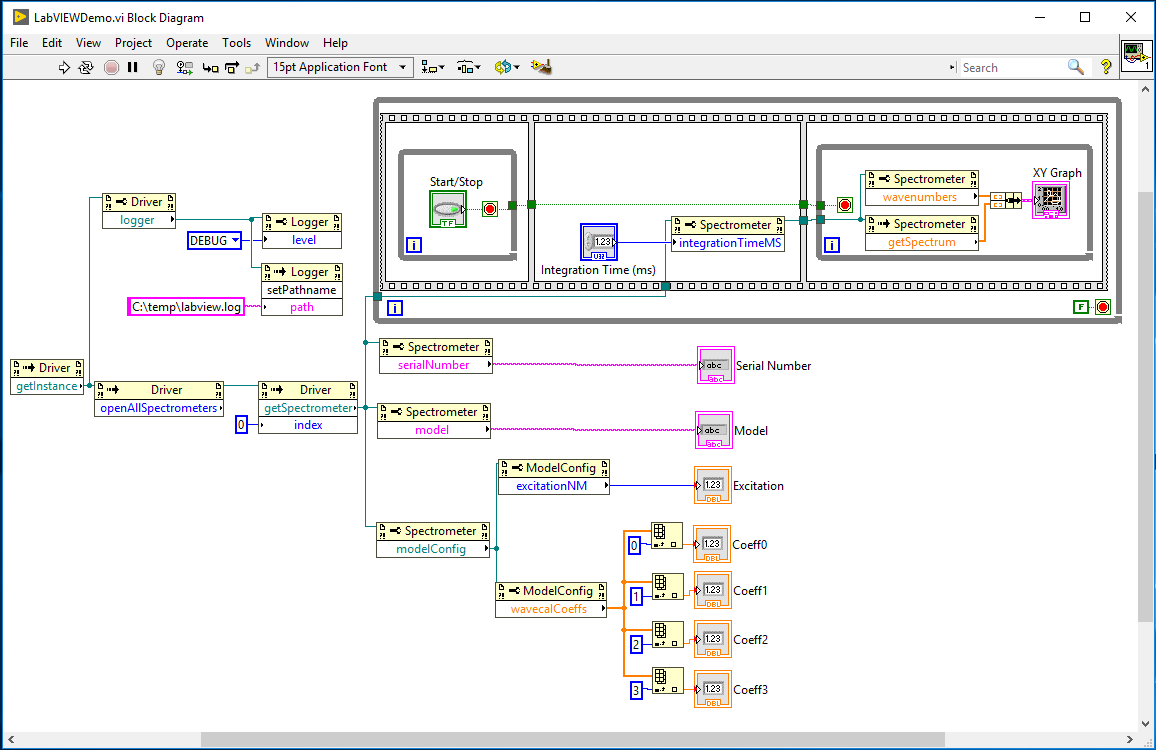
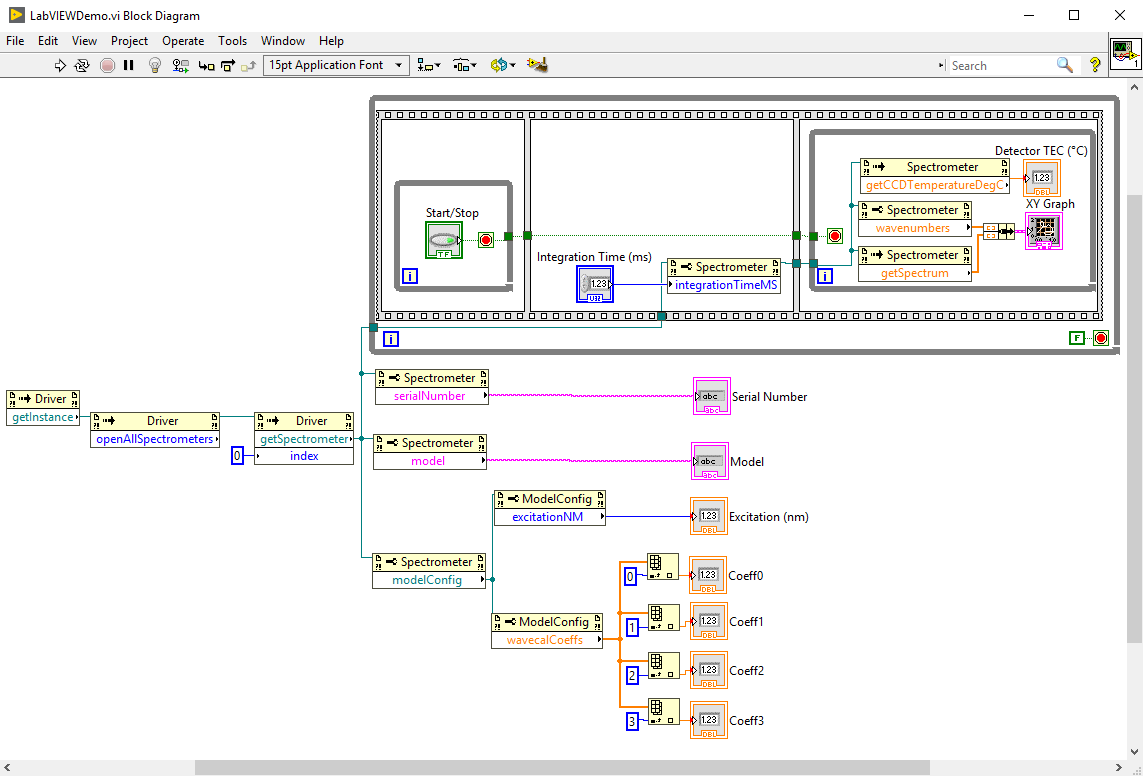
added temperature readout

Changed region(s): [[0.0, 0.0, 1.0, 1.0], [0.0612, 0.2453, 0.1531, 0.3067], [0.0919, 0.3987, 0.2143, 0.4293]]

diff --git a/README.md b/README.md
@@ -27,4 +27,8 @@ depending on which version of the driver you installed:
 * C:\\Program Files\\Wasatch Photonics\\Wasatch.NET\\WasatchNET.dll
 * C:\\Program Files (x86)\\Wasatch Photonics\\Wasatch.NET\\WasatchNET.dll
 
+# Version History
+
+- 2017-10-11 Added detector temperature readout
+
 ![Panel View](https://github.com/WasatchPhotonics/Wasatch.LV/raw/master/screenshots/panel.png)
